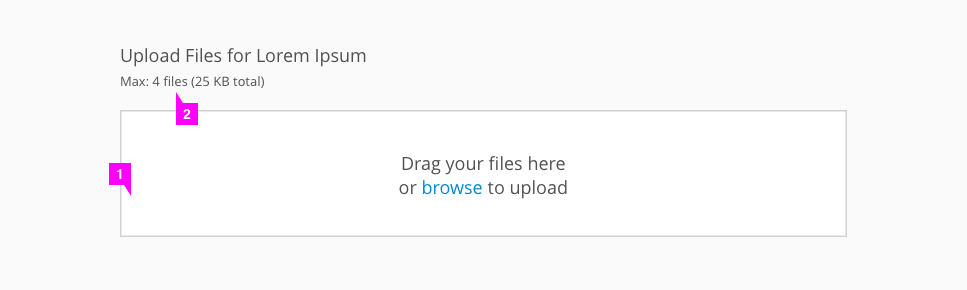
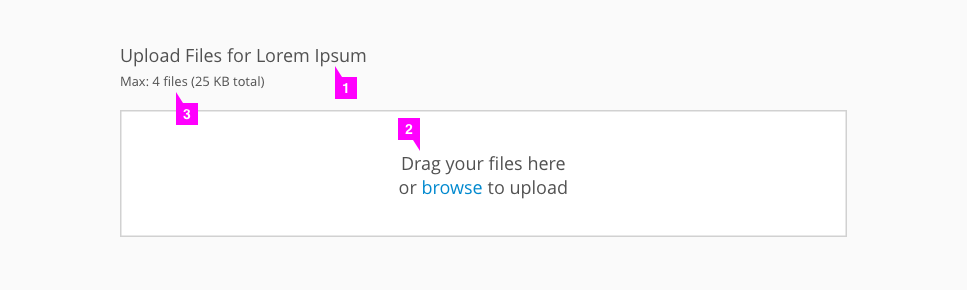
Updating pattern based on feedback from reviews

diff --git a/pattern-library/forms-and-controls/file-upload/design/design.md b/pattern-library/forms-and-controls/file-upload/design/design.md
@@ -3,7 +3,8 @@
 Patterns Available:
 * [Multiple File Upload](#multiple-file-upload)
 * [Single File Upload](#single-file-upload)
-* [Editable File Upload](#editable-file-upload)
+  * [Read-Only Preview](#read-only-preview)
+  * [Editable Preview](#editable-preview)
 
 ## Multiple File Upload
 ![Multiple File](img/Mul1.png)
@@ -12,33 +13,42 @@ Patterns Available:
 
 ![Multiple File](img/Mul3.png)
 
-1. **Drag and drop area**: Users may drag and drop files anywhere in this box or click “browse” to open a file directory and search for files.
-2. **Max files and size** (optional): Indicates to the user how many files they may upload and how large the upload may be.
-3. **Hover state**: Upon dragging files over the drop area, the box becomes outlined in blue and the text changes to “Drop Files Here.”
-4. **Upload status**: After the files have been dropped, their upload status is shown.
- * **Success**: For files that have successfully uploaded, the pficon-ok icon will be shown to the left of the filename and the file size is listed to the right (optional). Users have the option to remove the file by selecting "Remove."
- * **Failure**: For unsuccessful uploads, the pficon-error-circle-o icon is used instead. Users have the option to select "Retry" or "Remove."
- * **Loading**: For files that are still loading, the spinner icon is shown.
- * **Note**: If a selected file does not match the requirements for the file upload, an error dialog will appear to inform the user that the file is unable to be uploaded. (Ex: "Error: The file you are trying to upload, 'filename.csv' is the wrong file type. Please select another file.")
+![Multiple File](img/Mul4.png)
 
+1. **Header** (optional): Optionally use a title to give users context around the drag and drop component.
+2. **Drag and drop area**: Users may drag and drop files anywhere in this box or click “browse” to open a file directory and search for files.
+3. **Max files and size** (optional): Indicates to the user how many files they may upload and how large the upload may be.
+4. **Hover state**: Upon dragging files over the drop area, the drag and drop area becomes outlined in blue and the text changes to “Drop Files Here.” The pficon-add-circle-o icon is shown beneath the cursor.
+5. **Upload status**: After the files have been dropped, their upload status is shown.
+  * **Success**: For files that have successfully uploaded, the pficon-ok icon will be shown to the left of the filename and the file size is listed to the right (optional). Users have the option to remove the file by selecting "Remove."
+  * **Failure**: For unsuccessful uploads, the pficon-error-circle-o icon is used instead. Users have the option to select "Retry" or "Remove."
+  * **Loading**: The Patternfly [spinner](http://www.patternfly.org/pattern-library/widgets/#spinner) and text indicate the current status of each file uploading.
+  * **Note**: If a selected file does not match the requirements for the file upload, an error dialog will appear to inform the user that the file is unable to be uploaded. This includes instances where the user has attempted to upload a file of the wrong type or more files than allowed, for example.
+6. **Loading bars** (optional): If files may take a while to upload and upload times can be determined, a loading bar can be shown to give the user better feedback on upload times.
 
 ## Single File Upload
 
-![Single File](img/Single3.png)
+### Read-Only Preview
 
-1. **Single File**: This pattern may be used for cases in which users may upload only one file, and it behaves the same way as the Multiple File Upload. After a file has been uploaded, its upload status is shown with the file size (optional) and  "Remove" link listed to the right.
- * Note that if a user drags a new file to the drop area, a dialog will appear informing the user that they will overwrite the old file. Users may continue or cancel the action.
+![Single File](img/SingleRead1.png)
+
+![Single File](img/SingleRead3.png)
+
+1. **Header** (optional): Optionally use a title to give users context around the drag and drop component.
+2. **Drag and drop area**: Users may drag and drop files anywhere in this box or click “browse” to open a file directory and search for files.
+3. **Max files and size** (optional): Indicates to the user how many files they may upload and how large the upload may be.
+4. **Filename**: After the file has successfully uploaded, the filename is shown. Users have the option to remove the file by selecting "Remove."
+5. **Preview box**: After the file has successfully uploaded, the drag and drop area becomes the preview box.
 
 
-## Editable File Upload
-![Editable File](img/Combo1.png)
+### Editable Preview
+![Single File](img/SingleEdit1.png)
 
-![Editable File](img/Combo2.png)
+![Single File](img/SingleEdit3.png)
 
-![Editable File](img/Combo3.png)
-
-1. **Drag and drop area**: Users may drag and drop a file anywhere in this box, click “browse” to open a file directory and search for files, or type or paste text directly into the box.
-2. **Max files and size** (optional): Indicates to the user how many files they may upload and how large the upload may be.
-3. **Hover state**: Upon dragging a file over the drop area, the box becomes outlined in blue and the text changes to “Drop File Here.”
-4. **Edit box**: After the file has successfully uploaded or the user has copied and pasted into the box, the edit box is populated with content and the empty state disappears. Users may edit the content by typing directly into the box.
- * If a user deletes the contents of the edit box, it will return to the original empty state.
+1. **Header** (optional): Optionally use a title to give users context around the drag and drop component.
+2. **Drag and drop area**: Users may drag and drop a file anywhere in this box, click “browse” to open a file directory and search for files, or type or paste text directly into the box.
+3. **Max files and size** (optional): Indicates to the user how many files they may upload and how large the upload may be.
+4. **Filename** (optional): After the file has successfully uploaded, the filename is shown. This is only shown if a user chose to upload a file via drag and drop or using the "browse" link.
+5. **Edit box**: After the file has successfully uploaded or the user has copied and pasted into the box, the edit box is populated with content and the empty state disappears. Users may edit the content by typing directly into the box.
+  * If a user deletes the contents of the edit box, it will return to the original drag and drop state.

diff --git a/pattern-library/forms-and-controls/file-upload/design/overview.md b/pattern-library/forms-and-controls/file-upload/design/overview.md
@@ -1,16 +1,29 @@
 # File Upload
 
-
 ## Overview
 
-The file upload pattern allows users to upload single or multiple files. This component has two main ways to interact with it: browsing for a file within a file directory or dragging and dropping a file.
+The file upload pattern allows users to upload single or multiple files. The single file upload component can have either a read-only preview or an editable preview of the uploaded file. Multiple file upload does not have a preview.
 
-This pattern has the optional feature of showing a read only or editable preview of the uploaded file.
+This pattern has two main ways to interact with it: browsing for a file within a file directory or dragging and dropping a file. The editable preview version supports the additional interaction of typing or pasting text directly into the drag and drop area.
 
-## File Upload Example
-![File Upload](img/overview.png)
+
+## Multiple File Upload
+![File Upload](img/overview-mul.png)
+
+## Single File Upload
+
+### Read-Only Preview
+![File Upload](img/overview-read.png)
+
+### Editable Preview
+![File Upload](img/overview-edit.png)
 
 
 #### Use Cases
 
-This pattern may be used in any case where a user must upload files. However, we do not recommend this as a replacement for the file select component built into many browsers that is displayed as a text field and a "Browse" button. These two patterns – the file upload pattern and the file select component – should never be used together.
+This pattern should not be used when the file select component provided by the browser will provide a smooth interaction for users of the product. We do recommend using this pattern in the following use cases:
+
+* In situations where it is likely that the user would have the file handy from a recent download or interaction for dragging into the browser.
+* When the user may need to upload multiple files, as the drag and drop will allow for a faster interaction than selecting multiple files through browsing.
+* When a preview of the file is necessary to help confirm the content is correct.
+* When a user might be adding a file into an text editing environment.
